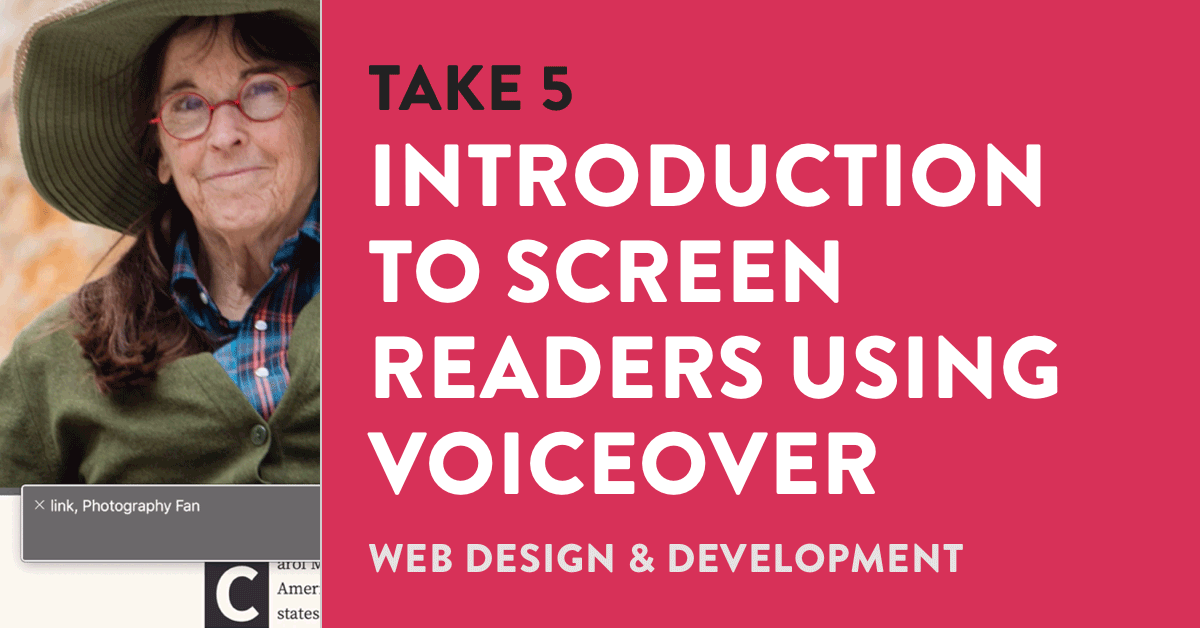
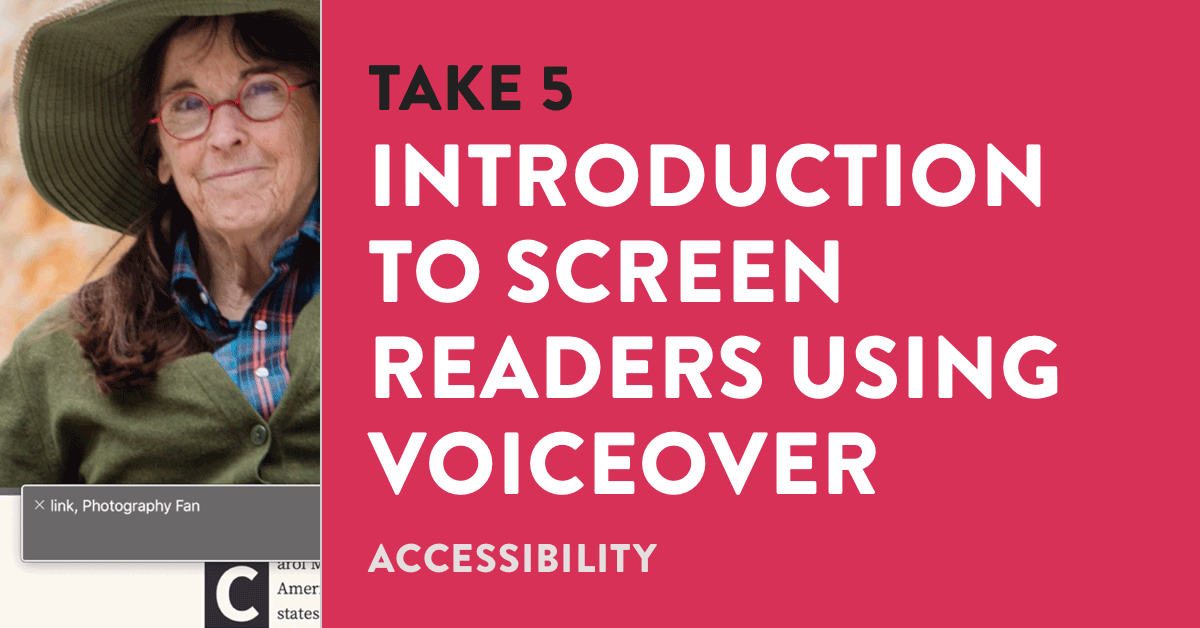
[Release] All About Accessibility (#483)

Changed region(s): [[0.3083, 0.8471, 0.8017, 0.9076]]

diff --git a/take5/catalog.html b/take5/catalog.html
@@ -27,28 +27,28 @@ permalink: /static/take5/
 <header class="take5--about" id="about">
   <div class="container">
     <h1>Take 5</h1>
-    <p><strong>Learn a new skill in 5 minutes</strong> — video tutorials on web design and development, UX, prototyping, and career skills.</p>
+    <p><strong>Learn a new skill in 5 minutes.</strong><br>Video tutorials on accessibility, career skills, prototyping, user experience, and web design and development.</p>
   </div>
 </header>
 
-{%- assign pubdates = ""  | split: ", " -%}
-{%- assign publish_order = ""  | split: ", " -%}
-{% assign topics = ""  | split: ', '%}
+{%- assign pubdates = "" | split: ", " -%}
+{%- assign publish_order = "" | split: ", " -%}
+{% assign topics = "" | split: ', '%}
 
-{%- assign recent = ""  | split: ", " -%}
+{%- assign recent = "" | split: ", " -%}
 
 {% assign catalog = site.data.take5s | sort %}
 
 {% for take5_hash in catalog %}
     {% assign item = take5_hash[1] %}
     {% if item.live == true %}
-        {% assign topics = topics | push: item.topic  %}
+        {% assign topics = topics | push: item.topic %}
         {%- assign pubdates = pubdates | push: item.date -%}
     {% endif %}
 
 {% endfor %}
 
-{% assign unique_topics = topics | uniq | join: ', '|split: ', ' %}
+{% assign unique_topics = topics | uniq | reverse | join: ', '|split: ', ' %}
 
 {%- assign pubdates_sorted = pubdates | sort -%}
 
@@ -63,7 +63,7 @@ permalink: /static/take5/
 
 {%- endfor -%}
 
-{%- assign publish_order = publish_order | uniq | join: ', '|split: ', '  -%}
+{%- assign publish_order = publish_order | uniq | join: ', '|split: ', ' -%}
 
 {%- for item in publish_order -%}
 

diff --git a/_includes/take5/hero-take5-featured.html b/_includes/take5/hero-take5-featured.html
@@ -27,17 +27,20 @@
 
 {%- case hero_topic -%}
 
-    {%- when "Web Design & Development" -%}
-    {%- assign hero_style = "topic-web-design-development" -%}
-
-    {%- when "Prototyping" -%}
-    {%- assign hero_style = "topic-prototyping" -%}
+    {%- when "Accessibility" -%}
+    {%- assign hero_style = "topic-accessibility" -%}
 
     {%- when "Career Skills" -%}
     {%- assign hero_style = "topic-career-skills" -%}
 
+    {%- when "Prototyping" -%}
+    {%- assign hero_style = "topic-prototyping" -%}
+
     {%- when "User Experience" -%}
     {%- assign hero_style = "topic-user-experience" -%}
+
+    {%- when "Web Design & Development" -%}
+    {%- assign hero_style = "topic-web-design-development" -%}
 
 {%- endcase -%}
 

diff --git a/_includes/take5/test-bottom.html b/_includes/take5/test-bottom.html
@@ -31,7 +31,9 @@
               <li><a href="/web-development">Web Development</a></li>
               <li><a href="/ux-design">UX Design</a></li>
               <li><a href="/prototyping">Prototyping</a></li>
-              <li><a href="/career-skills">Career Skills</a></li>
+              <!-- <li><a href="/career-skills">Career Skills</a></li> -->
+              <li><a href="/remote-work">Remote Work</a></li>
+              <li><a href="/accessibility">Accessibility</a></li>
             </ul>
           </section>
         </div>

diff --git a/css/hero-take5.css b/css/hero-take5.css
@@ -2,11 +2,12 @@
   background-color: #2c9959;
 }
 
-.topic-user-experience,
-.topic-prototyping {
+.topic-prototyping,
+.topic-user-experience, {
   background-color: #5ca5a0;
 }
 
+.topic-accessibility,
 .topic-web-design-development {
   background-color: #d73158;
 }
